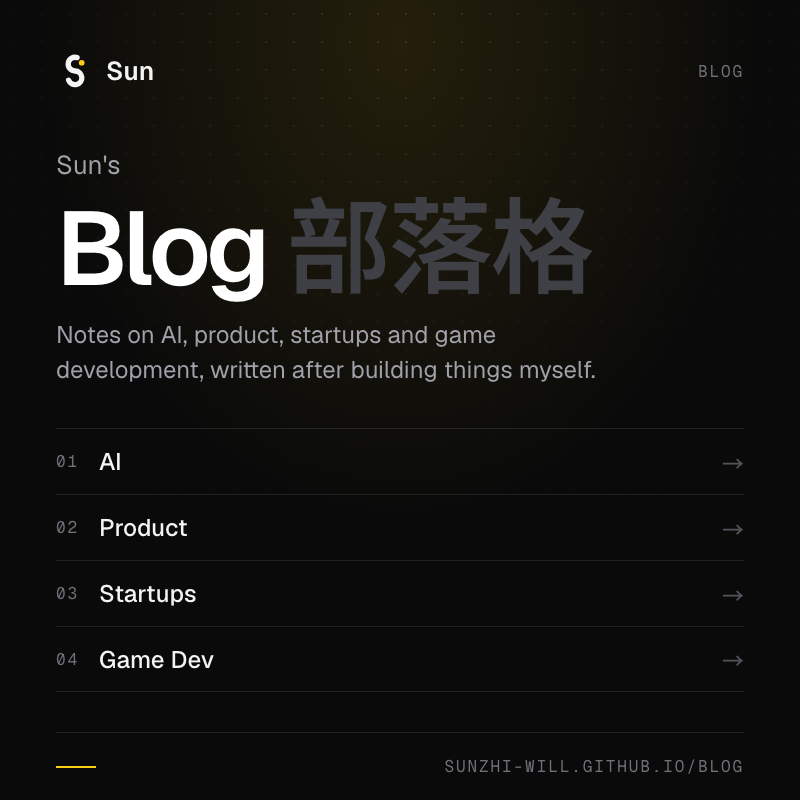
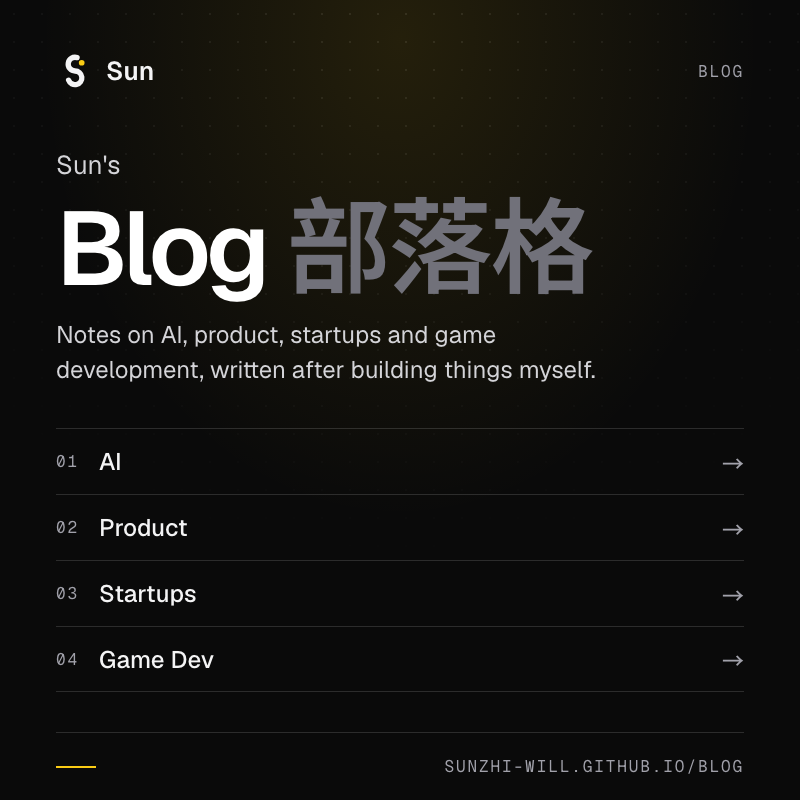
backup: auto-commit before replacing gray text with white and accent yellow on dark pages (home, links, pricing) and OG images

diff --git a/app/pricing/page.tsx b/app/pricing/page.tsx
@@ -360,7 +360,7 @@ export default function PricingPage() {
                                         )}
                                     </div>
                                     <h2 className="mt-3 text-3xl font-semibold tracking-tight text-white md:text-5xl">{service.title}</h2>
-                                    <p className="mt-2 text-sm text-zinc-500">{service.subtitle}</p>
+                                    <p className="mt-2 text-sm text-zinc-400">{service.subtitle}</p>
                                 </Reveal>
                                 <motion.div
                                     className="mt-8 h-px origin-left bg-white/10"
@@ -398,11 +398,11 @@ export default function PricingPage() {
                                                 </div>
 
                                                 <p className="mt-6 flex flex-wrap items-baseline gap-x-2">
-                                                    <span className="font-geist-mono text-xs text-zinc-500">{t.currency}</span>
+                                                    <span className="font-geist-mono text-xs text-zinc-400">{t.currency}</span>
                                                     <span className="text-3xl font-semibold tracking-tight text-white md:text-4xl">{tier.price}</span>
-                                                    <span className="text-sm text-zinc-500">{tier.unit}</span>
+                                                    <span className="text-sm text-zinc-400">{tier.unit}</span>
                                                 </p>
-                                                <p className="mt-2 text-sm leading-relaxed text-zinc-500">{tier.description}</p>
+                                                <p className="mt-2 text-sm leading-relaxed text-zinc-400">{tier.description}</p>
 
                                                 <ul className="mt-6 flex-1 space-y-2.5 border-t border-white/10 pt-6">
                                                     {tier.features.map((feat) => (
@@ -416,7 +416,7 @@ export default function PricingPage() {
                                                 </ul>
 
                                                 {tier.note && (
-                                                    <p className="mt-6 border-t border-white/10 pt-4 text-xs text-zinc-500">
+                                                    <p className="mt-6 border-t border-white/10 pt-4 text-xs text-zinc-400">
                                                         ＊ {tier.note}
                                                     </p>
                                                 )}
@@ -427,7 +427,7 @@ export default function PricingPage() {
                             </section>
                         ))}
 
-                        <Reveal className="max-w-2xl text-sm text-zinc-500">
+                        <Reveal className="max-w-2xl text-sm text-zinc-400">
                             {t.disclaimer}
                         </Reveal>
                     </div>
@@ -451,7 +451,7 @@ export default function PricingPage() {
                                     <span aria-hidden="true" className="transition-transform duration-300 group-hover:translate-x-1">→</span>
                                 </a>
                             </Magnetic>
-                            <p className="text-sm text-zinc-500">{t.ctaNote}</p>
+                            <p className="text-sm text-zinc-400">{t.ctaNote}</p>
                         </Reveal>
 
                         <div className="mt-16 grid gap-10 border-t border-white/10 pt-10 sm:grid-cols-2 md:mt-24">
@@ -465,7 +465,7 @@ export default function PricingPage() {
                             </Reveal>
                         </div>
 
-                        <div className="mt-16 flex flex-col gap-4 border-t border-white/10 py-8 text-sm text-zinc-500 md:flex-row md:items-center md:justify-between">
+                        <div className="mt-16 flex flex-col gap-4 border-t border-white/10 py-8 text-sm text-zinc-400 md:flex-row md:items-center md:justify-between">
                             <p>© {new Date().getFullYear()} {STUDIO_NAME} · 謝上智</p>
                             <nav className="flex items-center gap-6" aria-label={STUDIO_NAME}>
                                 <Link href="/" className="link-draw text-zinc-400 hover:text-white">{t.back.replace(/^←\s*/, '')}</Link>

diff --git a/components/home/About.tsx b/components/home/About.tsx
@@ -72,7 +72,7 @@ function ExperienceRow({ exp, delay, labels }: { exp: Experience; delay: number;
           className="group flex w-full items-start justify-between gap-4 py-6 text-left"
         >
           <span className="grid gap-1 md:grid-cols-[11rem_1fr] md:items-baseline md:gap-8">
-            <span className="font-geist-mono text-xs text-zinc-500">{exp.period}</span>
+            <span className="font-geist-mono text-xs text-zinc-400">{exp.period}</span>
             <span>
               <span className="block text-lg font-semibold text-white md:text-xl">{company}</span>
               {role && <span className="mt-0.5 block text-sm text-zinc-400">{role}</span>}
@@ -159,7 +159,7 @@ export function About({ lang }: { lang: Lang }) {
                 <CountUp to={stat.value} />
                 {stat.suffix && <span className="text-yellow-400">{stat.suffix}</span>}
               </p>
-              <p className="mt-2 text-xs text-zinc-500 md:text-sm">{stat.label}</p>
+              <p className="mt-2 text-xs text-zinc-400 md:text-sm">{stat.label}</p>
             </Reveal>
           ))}
         </div>
@@ -184,7 +184,7 @@ export function About({ lang }: { lang: Lang }) {
                     <h3 className="text-lg font-semibold text-white transition-colors duration-300 group-hover:text-yellow-400">
                       {item.name}
                     </h3>
-                    {item.note && <p className="mt-0.5 text-xs text-zinc-500">{item.note}</p>}
+                    {item.note && <p className="mt-0.5 text-xs text-zinc-400">{item.note}</p>}
                   </div>
                   <p className="text-[15px] leading-relaxed text-zinc-400">{item.text}</p>
                 </Reveal>
@@ -240,7 +240,7 @@ export function About({ lang }: { lang: Lang }) {
                 <Spotlight className="h-full p-6">
                   <span className="eyebrow">{String(i + 1).padStart(2, '0')}</span>
                   <h3 className="mt-8 text-base font-semibold text-white">{service.title}</h3>
-                  <p className="mt-2 text-sm leading-relaxed text-zinc-500">{service.description}</p>
+                  <p className="mt-2 text-sm leading-relaxed text-zinc-400">{service.description}</p>
                 </Spotlight>
               </Reveal>
             ))}

diff --git a/scripts/generate-brand-assets.js b/scripts/generate-brand-assets.js
@@ -196,7 +196,7 @@ function cardHtml(card, shape, portraitSrc) {
     letter-spacing: 0.12em;
     text-transform: uppercase;
     white-space: nowrap;
-    color: #71717a;
+    color: #a1a1aa;
   }
   header, main, footer { position: relative; }
   header { display: flex; align-items: center; justify-content: space-between; }
@@ -204,12 +204,12 @@ function cardHtml(card, shape, portraitSrc) {
   .brand svg { width: 38px; height: 38px; }
   main { flex: 1; display: flex; min-height: 0; }
   .copy { min-width: 0; }
-  .pre { color: #a1a1aa; }
+  .pre { color: #d4d4d8; }
   h1 { font-weight: 600; line-height: 1; letter-spacing: -0.04em; color: #fff; white-space: nowrap; }
-  h1 .alt { color: #3f3f46; font-family: 'Noto Sans TC', 'PingFang TC', sans-serif; letter-spacing: -0.02em; }
+  h1 .alt { color: #71717a; font-family: 'Noto Sans TC', 'PingFang TC', sans-serif; letter-spacing: -0.02em; }
   .lead { color: #fff; }
-  .body { color: #a1a1aa; line-height: 1.45; text-wrap: balance; }
-  footer { display: flex; align-items: center; justify-content: space-between; border-top: 1px solid rgba(255, 255, 255, 0.1); }
+  .body { color: #d4d4d8; line-height: 1.45; text-wrap: balance; }
+  footer { display: flex; align-items: center; justify-content: space-between; border-top: 1px solid rgba(255, 255, 255, 0.14); }
   .topics { display: flex; align-items: center; gap: 16px; }
   .topics::before { content: ''; width: 40px; height: 2px; background: ${ACCENT}; }
   .status {
@@ -251,10 +251,10 @@ function cardHtml(card, shape, portraitSrc) {
   .portrait .status { position: absolute; left: -4%; bottom: 9%; }
 
   .rows { list-style: none; flex: none; }
-  .rows li { display: flex; align-items: center; gap: 20px; border-top: 1px solid rgba(255, 255, 255, 0.1); }
-  .rows li:last-child { border-bottom: 1px solid rgba(255, 255, 255, 0.1); }
+  .rows li { display: flex; align-items: center; gap: 20px; border-top: 1px solid rgba(255, 255, 255, 0.14); }
+  .rows li:last-child { border-bottom: 1px solid rgba(255, 255, 255, 0.14); }
   .row-title { flex: 1; font-weight: 500; color: #f4f4f5; white-space: nowrap; }
-  .row-arrow { color: #52525b; }
+  .row-arrow { color: #a1a1aa; }
 
   /* 1200x630 */
   .wide { padding: 52px 64px 0; }

diff --git a/app/links/page.tsx b/app/links/page.tsx
@@ -255,7 +255,7 @@ export default function LinksPage() {
                 </div>
 
                 <div className="mt-4 flex items-center gap-2 border-t border-white/10 pt-4">
-                  <p className="flex-1 truncate text-xs text-zinc-500">{currentUrl}</p>
+                  <p className="flex-1 truncate text-xs text-zinc-400">{currentUrl}</p>
                   <button
                     type="button"
                     onClick={copyToClipboard}
@@ -354,12 +354,12 @@ export default function LinksPage() {
                       )}
                     </span>
                     {link.description && (
-                      <span className={`mt-0.5 block text-sm text-zinc-500 ${viewMode === 'list' ? 'truncate' : 'line-clamp-2'}`}>{link.description}</span>
+                      <span className={`mt-0.5 block text-sm text-zinc-400 ${viewMode === 'list' ? 'truncate' : 'line-clamp-2'}`}>{link.description}</span>
                     )}
                   </span>
                   <span
                     aria-hidden="true"
-                    className={`text-zinc-600 transition-all duration-300 group-hover:translate-x-1 group-hover:text-yellow-400 ${
+                    className={`text-zinc-500 transition-all duration-300 group-hover:translate-x-1 group-hover:text-yellow-400 ${
                       viewMode === 'grid' ? 'absolute right-5 top-5' : ''
                     }`}
                   >
@@ -371,7 +371,7 @@ export default function LinksPage() {
           </motion.ul>
 
           <motion.footer
-            className="mt-12 flex items-center justify-between text-sm text-zinc-500"
+            className="mt-12 flex items-center justify-between text-sm text-zinc-400"
             initial={{ opacity: 0 }}
             animate={{ opacity: 1 }}
             transition={{ delay: 1.2, duration: 0.8 }}

diff --git a/components/home/Work.tsx b/components/home/Work.tsx
@@ -158,9 +158,9 @@ const WorkCard = forwardRef<HTMLLIElement, { item: ShowcaseItem; onOpen: () => v
         </div>
         <div className="mt-3.5 flex items-baseline justify-between gap-3">
           <h3 className="truncate text-base font-medium text-zinc-100 transition-colors duration-200 group-hover:text-yellow-400">{name}</h3>
-          {item.startYear && <span className="font-geist-mono text-xs text-zinc-600">{item.startYear}</span>}
+          {item.startYear && <span className="font-geist-mono text-xs text-zinc-400">{item.startYear}</span>}
         </div>
-        <p className="mt-0.5 truncate text-sm text-zinc-500">{tagline}</p>
+        <p className="mt-0.5 truncate text-sm text-zinc-400">{tagline}</p>
       </button>
     </motion.li>
   );
@@ -260,7 +260,7 @@ export function Work({ lang }: { lang: Lang }) {
                     )}
                     <span className="relative">
                       {chip.label}
-                      <span className={`ml-1.5 font-geist-mono text-[11px] ${isActive ? 'text-zinc-500' : 'text-zinc-600'}`}>{chip.count}</span>
+                      <span className={`ml-1.5 font-geist-mono text-[11px] ${isActive ? 'text-zinc-500' : 'text-zinc-400'}`}>{chip.count}</span>
                     </span>
                   </button>
                 );

diff --git a/components/home/Contact.tsx b/components/home/Contact.tsx
@@ -82,7 +82,7 @@ export function Contact({ lang }: { lang: Lang }) {
                   rel="noopener noreferrer"
                   className="link-draw text-lg font-medium text-zinc-300 hover:text-white md:text-xl"
                 >
-                  {social.label} <span aria-hidden="true" className="text-zinc-600">↗</span>
+                  {social.label} <span aria-hidden="true" className="text-zinc-500">↗</span>
                 </a>
               </li>
             ))}
@@ -97,7 +97,7 @@ export function Contact({ lang }: { lang: Lang }) {
           transition={{ duration: 1.1, ease: EASE_OUT }}
         />
 
-        <div className="flex flex-col gap-5 py-8 text-sm text-zinc-500 md:flex-row md:items-center md:justify-between">
+        <div className="flex flex-col gap-5 py-8 text-sm text-zinc-400 md:flex-row md:items-center md:justify-between">
           <p>
             © {new Date().getFullYear()} {t.footer.portfolio}
           </p>

diff --git a/components/home/Hero.tsx b/components/home/Hero.tsx
@@ -134,14 +134,14 @@ export function Hero({ lang }: { lang: Lang }) {
           </motion.span>
           <span className="mt-1 block text-[clamp(3rem,10vw,7rem)] font-semibold leading-[0.95] tracking-[-0.04em] text-white">
             <SplitText text={copy.hero.name} immediate delay={0.3} stagger={0.06} />
-            <span className="text-zinc-700">
+            <span className="text-zinc-500">
               {' '}
               <SplitText text={copy.hero.alias} immediate delay={0.5} stagger={0.06} />
             </span>
           </span>
         </h1>
 
-        <motion.p className="mt-6 text-xl text-zinc-500 md:mt-8 md:text-3xl" {...fadeUp(0.75)}>
+        <motion.p className="mt-6 text-xl text-zinc-400 md:mt-8 md:text-3xl" {...fadeUp(0.75)}>
           <RoleRotator key={lang} roles={roles} />
         </motion.p>
 

diff --git a/components/home/Skills.tsx b/components/home/Skills.tsx
@@ -21,7 +21,7 @@ function MarqueeItem({ tech }: { tech: Tech }) {
         height={40}
         className="h-7 w-7 opacity-50 grayscale transition-all duration-300 group-hover:opacity-100 group-hover:grayscale-0 md:h-10 md:w-10"
       />
-      <span className="whitespace-nowrap text-3xl font-semibold tracking-tight text-zinc-700 transition-colors duration-300 group-hover:text-white md:text-6xl">
+      <span className="whitespace-nowrap text-3xl font-semibold tracking-tight text-zinc-500 transition-colors duration-300 group-hover:text-white md:text-6xl">
         {tech.name}
       </span>
     </span>

diff --git a/components/home/Activities.tsx b/components/home/Activities.tsx
@@ -59,7 +59,7 @@ export function Activities({ lang }: { lang: Lang }) {
                     <h3 className="mt-4 text-lg font-semibold leading-snug text-zinc-100 transition-colors duration-200 group-hover:text-yellow-400">
                       {item.title}
                     </h3>
-                    <p className="mt-1.5 line-clamp-2 text-sm leading-relaxed text-zinc-500">{item.description}</p>
+                    <p className="mt-1.5 line-clamp-2 text-sm leading-relaxed text-zinc-400">{item.description}</p>
                   </button>
                 </Reveal>
               </li>

diff --git a/components/home/SiteNav.tsx b/components/home/SiteNav.tsx
@@ -144,7 +144,7 @@ export function SiteNav({ lang, setLang }: SiteNavProps) {
               </motion.span>
             </AnimatePresence>
             <motion.svg
-              className="h-3.5 w-3.5 text-zinc-500"
+              className="h-3.5 w-3.5 text-zinc-400"
               viewBox="0 0 24 24"
               fill="none"
               stroke="currentColor"

diff --git a/components/motion/ScrollHighlight.tsx b/components/motion/ScrollHighlight.tsx
@@ -10,7 +10,7 @@ interface ScrollHighlightProps {
 }
 
 function Token({ text, progress, range }: { text: string; progress: MotionValue<number>; range: [number, number] }) {
-  const opacity = useTransform(progress, range, [0.2, 1]);
+  const opacity = useTransform(progress, range, [0.35, 1]);
   return <motion.span style={{ opacity }}>{text}</motion.span>;
 }
 

diff --git a/app/globals.css b/app/globals.css
@@ -144,7 +144,7 @@ html.site-dark ::-webkit-scrollbar-thumb:hover {
   font-size: 0.75rem;
   letter-spacing: 0.12em;
   text-transform: uppercase;
-  color: #71717a;
+  color: #a1a1aa;
 }
 
 .font-geist-mono {
